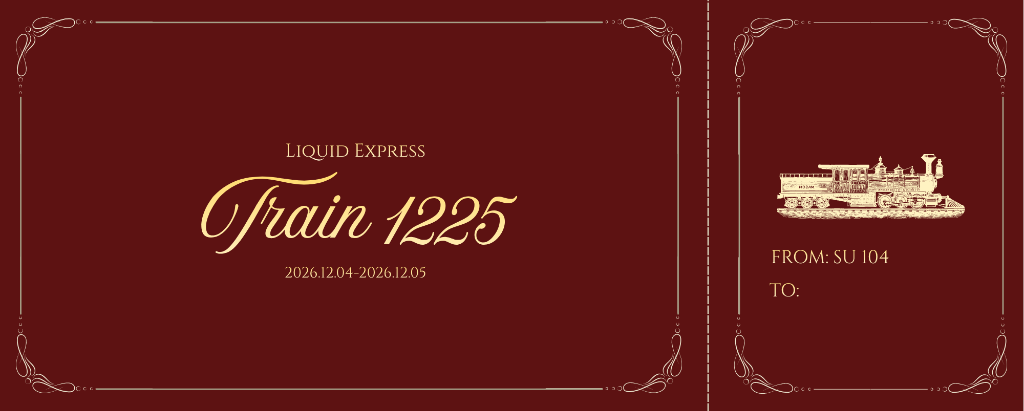
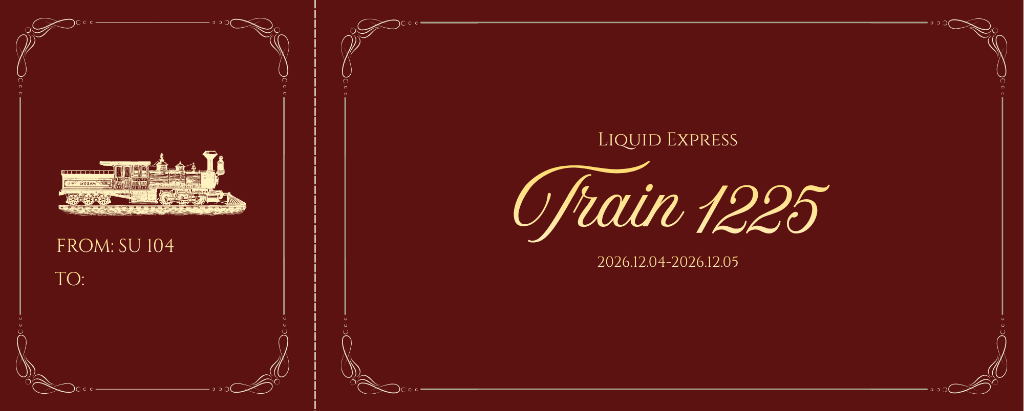
revert: restore original ticket back image with v3 cache bust

diff --git a/src/data/concert.js b/src/data/concert.js
@@ -61,7 +61,7 @@ export const concertData = {
     trainWindow: "/assets/train-window.png",
     qrcode: "/assets/qrcode.png",
     ticketFront: "/assets/liquid-express/ticket-front.png?v=2",
-    ticketBack: "/assets/liquid-express/ticket-back.png?v=2",
+    ticketBack: "/assets/liquid-express/ticket-back.png?v=3",
     journeyVideo: "/assets/train-journey.mp4",
     logoBanner: "/assets/liquid-logo-banner.jpg",
   },
